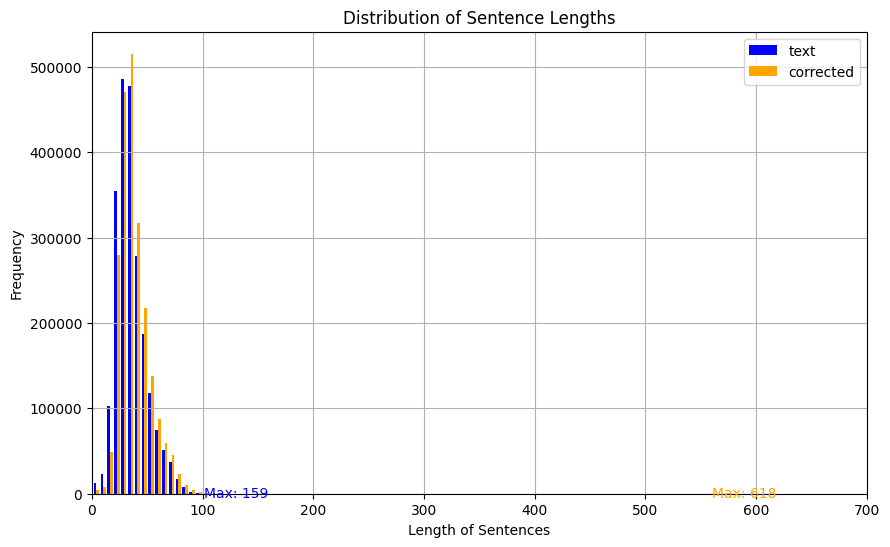
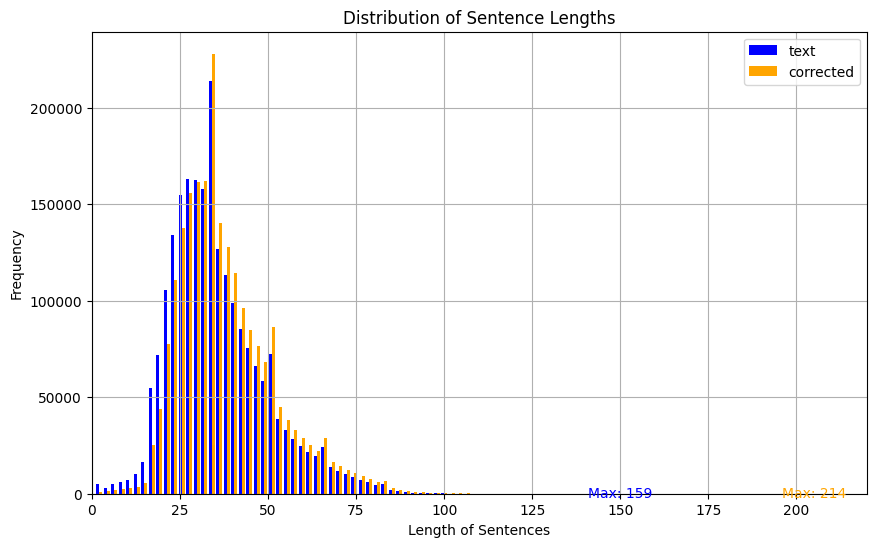
update on errors.

diff --git a/json_processing.py b/json_processing.py
@@ -3,6 +3,9 @@ from typing import List, Dict
 import json
 import pandas as pd
 import os
+import re
+
+replaced = r"^\"|\"$"
 
 def read_json_file(file_path: str) -> pd.DataFrame:
     """
@@ -11,12 +14,12 @@ def read_json_file(file_path: str) -> pd.DataFrame:
     :return: JSON 파일을 파싱한 리스트
     """
 
-    df = pd.DataFrame(columns=['text', 'corrected'])
+    df = pd.DataFrame(columns=['id', 'text', 'corrected'])
 
     # JSON 파일 읽어오기
     with open(file_path, 'r', encoding='utf-8-sig') as f:
         data: Dict = json.load(f)
-        df.loc[len(df)] = {'text': data.get('ko'), 'corrected': data.get('corrected')}
+        df.loc[len(df)] = {'id': file_path, 'text': data.get('ko'), 'corrected':  re.sub(replaced,'', str(data.get('corrected'))).strip()}
     
     return df
 
